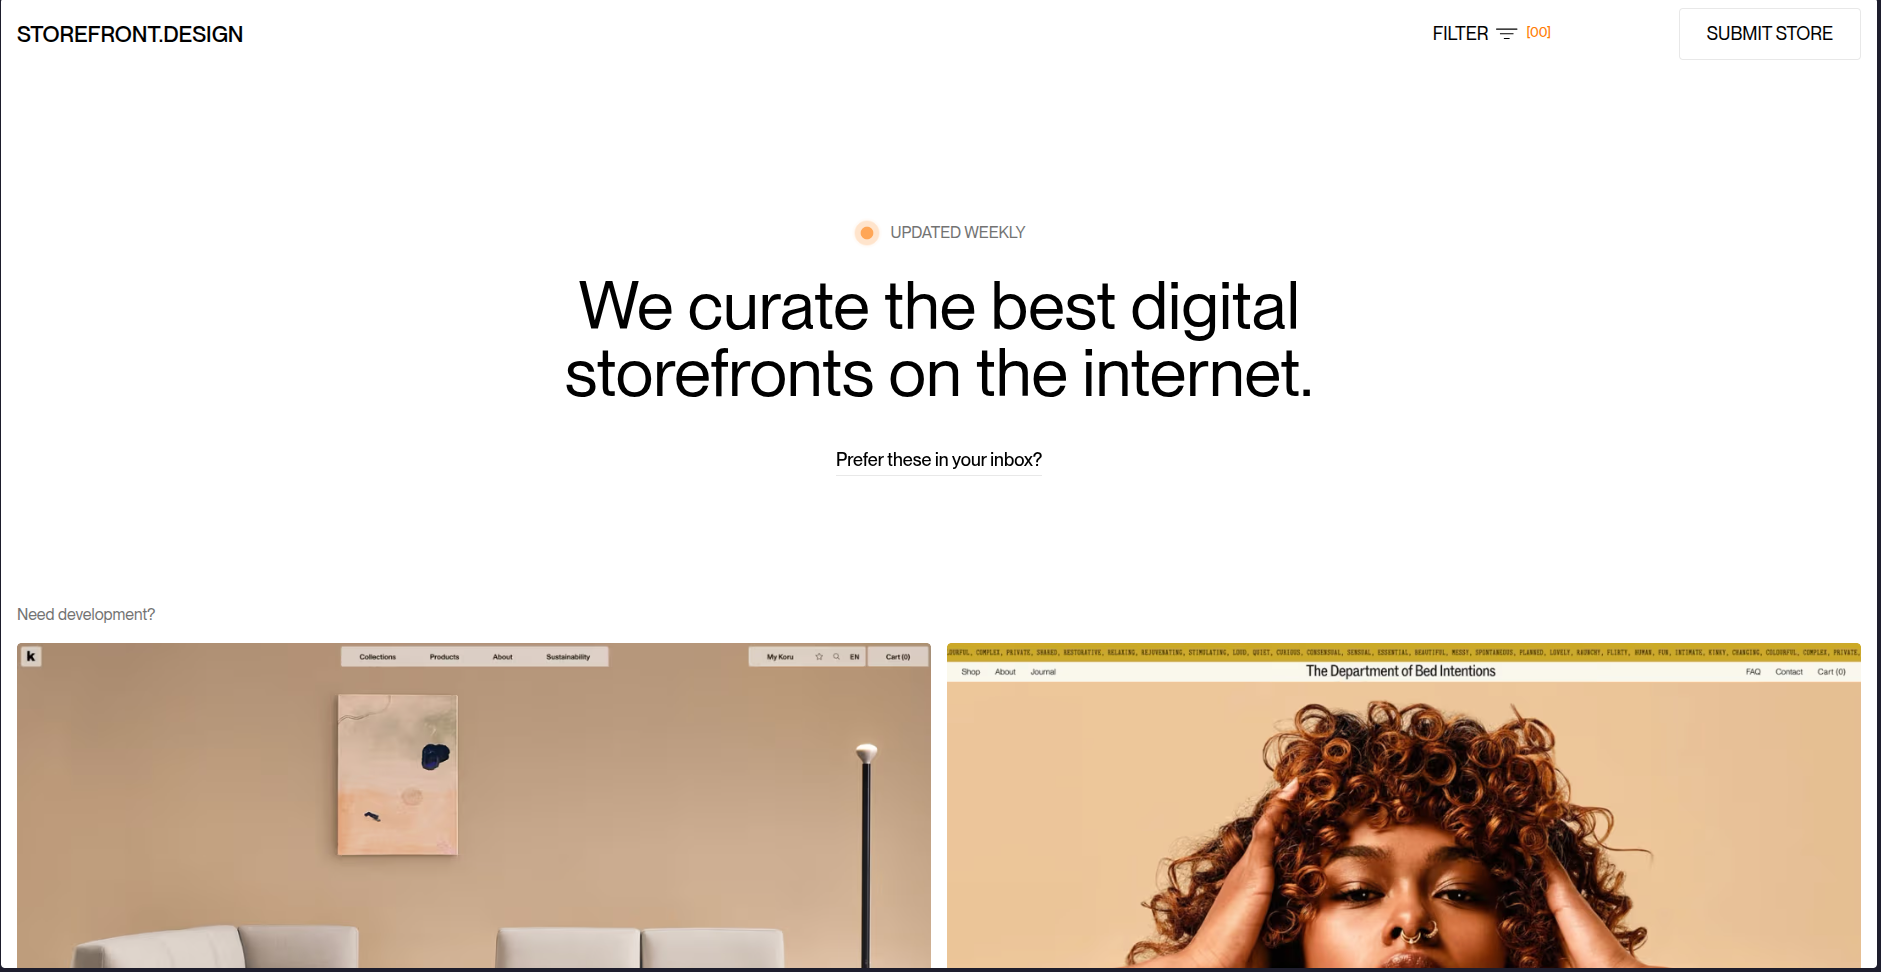
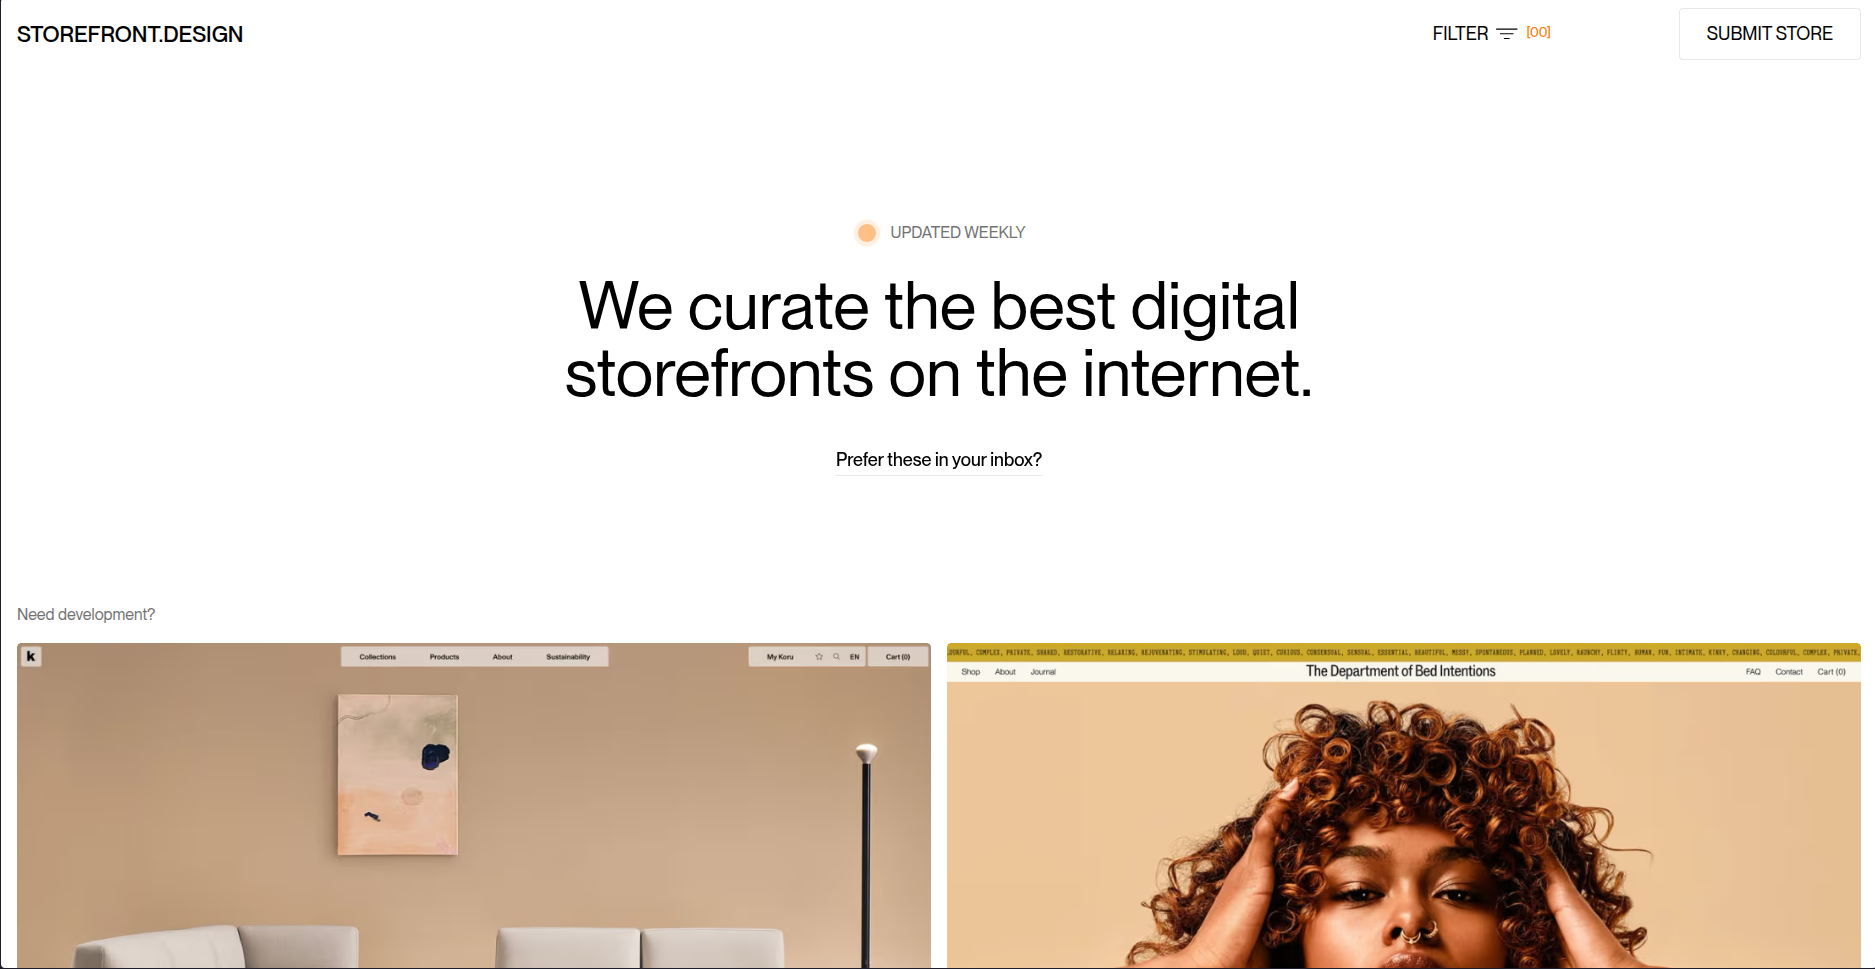
update image & data

diff --git a/web/data/siteData.ts b/web/data/siteData.ts
@@ -289,7 +289,7 @@ export const sitesData: SiteItem[] = [
     tag: "Tool",
     url: "https://efecto.app/",
     creator: "https://x.com/pablostanley",
-    image: "/images/efecto.png",
+    image: "/images/effecto.png",
   },
   {
     id: "i18",
